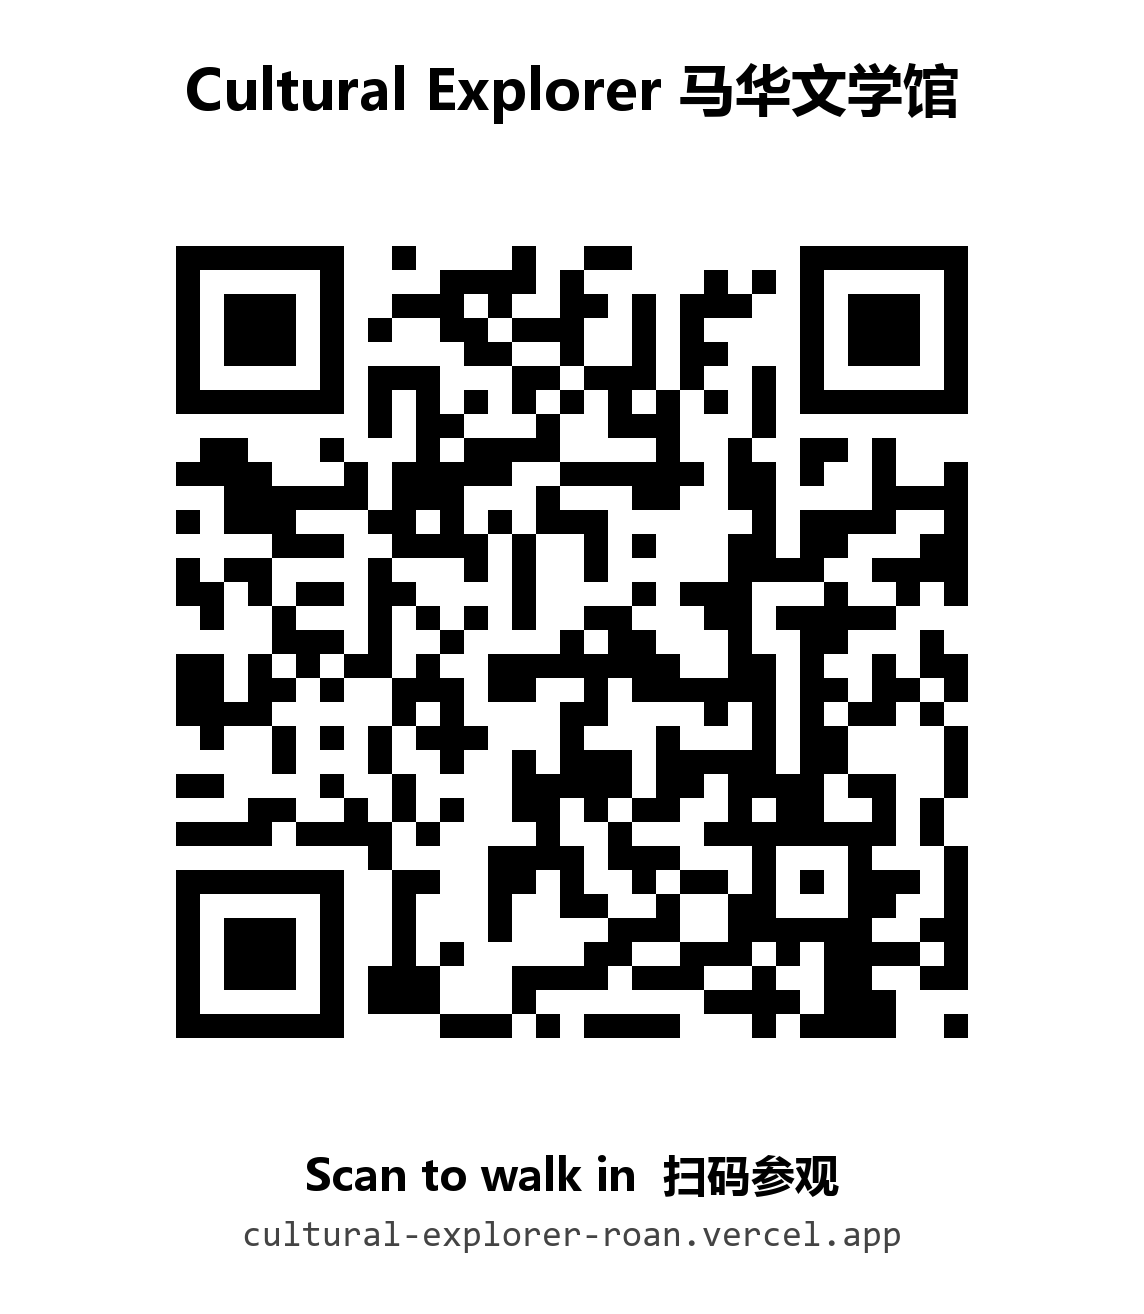
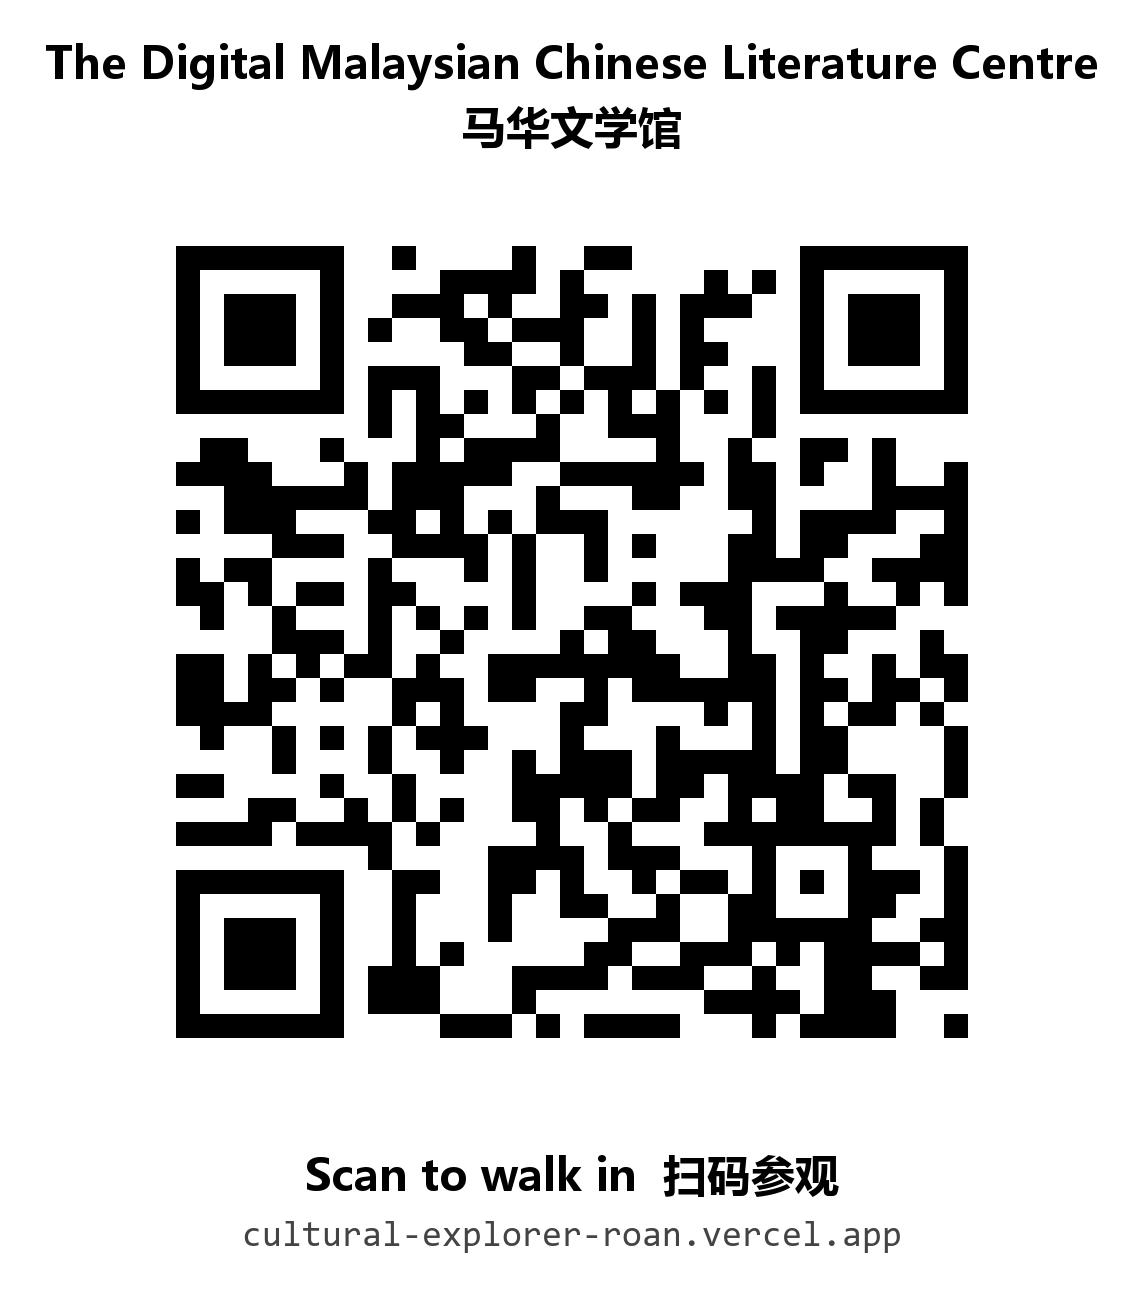
fix(book): readable flip book on phones; rename to The Digital Malaysian Chinese Literature Centre
Phone display of the flip book (reported on "A short history of Mahua literature"):
- upright phone: one page at a time instead of a two-page spread, so text is 12.5-19px instead of 7-8px
- a page whose text cannot fit scrolls inside the page instead of spilling over it
- book elements no longer transition font-size under prefers-reduced-motion, so the overflow check measures final sizes
- page bar under the book stays on screen on narrow phones
- phone held sideways: history text keeps at least 12px and the page scrolls

Name:
- page title, og:title and entry-page link read "The Digital Malaysian Chinese Literature Centre"
- QR poster title changed to the same name; the QR code and its address are unchanged

Changed region(s): [[0.0306, 0.0312, 0.979, 0.1248]]

diff --git a/cultural explorer.html b/cultural explorer.html
@@ -3,7 +3,8 @@
 <head>
 <meta charset="UTF-8">
 <meta name="viewport" content="width=device-width, initial-scale=1">
-<title>Cultural Explorer</title>
+<title>The Digital Malaysian Chinese Literature Centre</title>
+<meta property="og:title" content="The Digital Malaysian Chinese Literature Centre">
 <style>
   /* ---------- Design tokens ----------
      One theme (dark, to sit on the 3D scene), one accent (brass gold, taken from the scene's brass fittings).
@@ -20,6 +21,7 @@
     --chip-leg:#a5583b;
   }
   *{box-sizing:border-box}
+  html{-webkit-text-size-adjust:100%;text-size-adjust:100%}   /* stop phones inflating text on their own */
   html,body{margin:0;height:100%;background:#0d0b09;color:var(--ink);font-family:var(--ui);
     overflow:hidden;-webkit-user-select:none;user-select:none;-webkit-font-smoothing:antialiased}
   button{font-family:inherit;color:inherit}
@@ -131,6 +133,14 @@
   .fbook{position:relative;width:calc(var(--pw) * 2);height:var(--ph);perspective:2000px;
     font-size:calc(var(--pw) / 15);transition:transform .9s cubic-bezier(.4,.1,.2,1)}
   .fbook.closed{transform:translateX(calc(var(--pw) * -.5))}   /* closed: centre the cover */
+  /* upright phone: the spread is twice the screen width and slides, so one page at a time is centred and large enough to read */
+  .fbook.one{transform:translateX(calc(var(--pw) * -.5))} .fbook.one.left{transform:translateX(calc(var(--pw) * .5))}
+  /* a page whose text cannot fit (small screens, or a browser that enlarges small text) scrolls inside the page instead of spilling over it */
+  .pg.scroll{overflow-y:auto;-webkit-overflow-scrolling:touch;touch-action:pan-y;overscroll-behavior:contain}
+  .pg.scroll .num{position:static;margin-top:1em}
+  /* only the turning leaves animate inside the book. Without this, the reduced-motion rule at the end of this sheet turns every property of
+     every element into a (very short) transition, so the text is still at its old size when fitPages() measures the pages. */
+  .fbook *{transition-property:transform}
   #stage.show .fbook{animation:bookIn .7s cubic-bezier(.2,.8,.3,1)}
   @keyframes bookIn{from{opacity:0;scale:.55;translate:0 60px}}
   .leaf,.base{position:absolute;top:0;left:var(--pw);width:var(--pw);height:100%}
@@ -233,10 +243,14 @@
     #viewBtn{bottom:158px;max-width:calc(100vw - 32px)}
     #map{--mh:128px} #map.big{--mh:min(360px, calc(100vh - 110px))}
     .arrow{width:54px;height:54px}
-    #authorBox,.box{padding:26px 20px 22px} }
+    #authorBox,.box{padding:26px 20px 22px}
+    .bk-ctrl{max-width:calc(100% - 12px)} #pgInfo{min-width:0;flex:1 1 auto} }   /* the page bar stays on screen: a long page name wraps */
   /* phones: the brand shrinks to its seal and the tools tighten, so both still share the top row */
   @media (max-width:560px){ .hud-title{padding:0 4px} .hud-title > div{display:none} }
-  @media (max-width:400px){ .tool{padding:0 10px;font-size:13px} }
+  @media (max-width:400px){ .tool{padding:0 10px;font-size:13px}
+    .bk-ctrl button{padding:0 10px} #pgInfo{font-size:12.5px} }
+  /* phone held sideways: the pages are small, so the history text keeps a readable size and the page scrolls (see fitPages) */
+  @media (max-height:520px){ .pg .txt.sm,.pg dl.sm{font-size:max(.74em,12px)} .pg .txt.xs,.pg dl.xs{font-size:max(.64em,12px)} }
   @media (prefers-reduced-motion:reduce){ *,*::before,*::after{animation-duration:.01ms !important;transition-duration:.01ms !important} }
 </style>
 </head>
@@ -1731,11 +1745,14 @@ const stage = document.getElementById('stage'), fbook = document.getElementById(
 const pgPrev = document.getElementById('pgPrev'), pgNext = document.getElementById('pgNext'), pgInfo = document.getElementById('pgInfo');
 let PAGE_NAMES = [];
 let pageLeaves = [], flipped = 0;
+let onePage = false, showLeft = false;   // one-page mode (upright phone), and whether the left page of the open spread is the one in view
 let bookRatio = 1.25;   // page height ÷ width; a book opened with its cover photo takes the photo's shape
 
 function sizeBook(){
   // the book sits in the middle of the whole screen
-  let pw = Math.max(130, Math.min(300, (innerWidth - 40) / 2, (innerHeight - 150) / bookRatio)), pad = 0;
+  onePage = innerWidth < 760 && innerHeight > innerWidth;      // upright phone: show one page at a time
+  let pw = onePage ? Math.max(200, Math.min(420, innerWidth - 28, (innerHeight - 170) / bookRatio))
+                   : Math.max(130, Math.min(300, (innerWidth - 40) / 2, (innerHeight - 150) / bookRatio)), pad = 0;
   // only when the details bar is open and the screen is too narrow for both, the book moves aside just enough
   if (innerWidth >= 900 && panel.classList.contains('open')) {
     const free = innerWidth - panel.offsetWidth;             // room left of the details bar
@@ -1745,6 +1762,17 @@ function sizeBook(){
   }
   stage.style.paddingRight = pad + 'px';
   fbook.style.setProperty('--pw', pw + 'px'); fbook.style.setProperty('--ph', pw * bookRatio + 'px');
+  fbook.classList.toggle('one', onePage); fbook.classList.toggle('left', onePage && showLeft && flipped > 0);
+  fitPages();
+}
+// Any page whose content is taller than the page (or runs into the page number) becomes scrollable
+function fitPages(){
+  fbook.querySelectorAll('.pg').forEach(p => {
+    p.classList.remove('scroll');
+    const num = p.querySelector('.num');
+    const bottom = Math.max(0, ...[...p.children].filter(c => c !== num && getComputedStyle(c).position !== 'absolute').map(c => c.offsetTop + c.offsetHeight));
+    if (p.scrollHeight > p.clientHeight + 1 || (num && bottom > num.offsetTop)) p.classList.add('scroll');
+  });
 }
 addEventListener('resize', sizeBook);
 
@@ -1822,9 +1850,9 @@ function showBook(pages, sourceNote, names, ratio = 1.25){
   pageLeaves = [...fbook.querySelectorAll('.leaf')];
   pageLeaves.forEach((lf, k) => lf.addEventListener('click', e => {
     if (e.target.closest('.au')) return;                               // author name: opens the author box, no page turn
-    lf.classList.contains('flipped') ? turn(-1) : turn(1);
+    onePage ? turn(1) : lf.classList.contains('flipped') ? turn(-1) : turn(1);   // one page at a time: a tap always goes on
   }));
-  flipped = 0; sizeBook(); layoutLeaves();
+  flipped = 0; showLeft = false; sizeBook(); layoutLeaves();
   stage.classList.remove('show'); void stage.offsetWidth;            // restart the entrance animation
   stage.classList.add('show'); stage.setAttribute('aria-hidden', 'false');
 }
@@ -1983,13 +2011,18 @@ function layoutLeaves(active = -1){
     lf.classList.toggle('flipped', k < flipped);
     lf.style.zIndex = k === active ? 50 : k < flipped ? 10 + k : 10 + pageLeaves.length - k;
   });
-  fbook.classList.toggle('closed', flipped === 0);
-  pgPrev.disabled = flipped === 0; pgNext.disabled = flipped === pageLeaves.length;
+  fbook.classList.toggle('closed', flipped === 0); fbook.classList.toggle('left', onePage && showLeft && flipped > 0);
+  pgPrev.disabled = flipped === 0; pgNext.disabled = flipped === pageLeaves.length && !(onePage && showLeft);
   pgInfo.textContent = PAGE_NAMES[flipped];
 }
 let settleTimer;
 function turn(d){
+  if (onePage) {   // reading order on a phone: left page of the spread, then its right page, then the leaf turns
+    if (d > 0 && showLeft) { showLeft = false; layoutLeaves(); return; }
+    if (d < 0 && !showLeft && flipped > 0) { showLeft = true; layoutLeaves(); return; }
+  }
   const n = flipped + d; if (n < 0 || n > pageLeaves.length) return;
+  showLeft = d > 0;                                    // a leaf turned forward shows its back (the left page) first
   const active = d > 0 ? flipped : n;                  // the leaf that is moving
   flipped = n; layoutLeaves(active);
   clearTimeout(settleTimer); settleTimer = setTimeout(() => layoutLeaves(), 1100);

diff --git a/index.html b/index.html
@@ -3,12 +3,12 @@
 <head>
 <meta charset="UTF-8">
 <meta name="viewport" content="width=device-width, initial-scale=1">
-<title>Cultural Explorer</title>
+<title>The Digital Malaysian Chinese Literature Centre</title>
 <!-- Entry point for hosting: sends visitors to the app, so the short address (and the QR code) works. -->
 <meta http-equiv="refresh" content="0; url=cultural%20explorer.html">
 <script>location.replace('cultural%20explorer.html');</script>
 </head>
 <body style="margin:0;background:#0d0b09;color:#f5eedf;font:16px system-ui,sans-serif;display:grid;place-items:center;height:100vh">
-<a href="cultural%20explorer.html" style="color:#d8b36a">Cultural Explorer 马华文学馆</a>
+<a href="cultural%20explorer.html" style="color:#d8b36a">The Digital Malaysian Chinese Literature Centre 马华文学馆</a>
 </body>
 </html>

diff --git a/qr/make_qr.py b/qr/make_qr.py
@@ -1,4 +1,4 @@
-# Makes the QR code for the public Cultural Explorer address, then reads it back to confirm it decodes to the same address.
+# Makes the QR code for the public address of The Digital Malaysian Chinese Literature Centre, then reads it back to confirm it decodes to the same address.
 import sys, qrcode
 from qrcode.constants import ERROR_CORRECT_Q
 from PIL import Image, ImageDraw, ImageFont
@@ -22,7 +22,11 @@ def font(size, names=("msyhbd.ttc", "msyh.ttc", "arialbd.ttf", "arial.ttf")):
     return ImageFont.load_default()
 def centre(text, y, f, fill="black"):
     w = d.textlength(text, font=f); d.text(((W - w) / 2, y), text, font=f, fill=fill)
-centre("Cultural Explorer 马华文学馆", 50, font(56))
+TITLE = "The Digital Malaysian Chinese Literature Centre"
+size = 56                                             # the title is long: use the largest size that leaves a margin each side
+while d.textlength(TITLE, font=font(size)) > W - 80: size -= 1
+centre(TITLE, 32, font(size))
+centre("马华文学馆", 96, font(44))
 centre("Scan to walk in  扫码参观", img.height + 160, font(44))
 centre(URL.replace("https://", ""), img.height + 235, font(36, ("consola.ttf", "arial.ttf")), "#444444")
 poster.save("qr/cultural-explorer-qr-poster.png")
